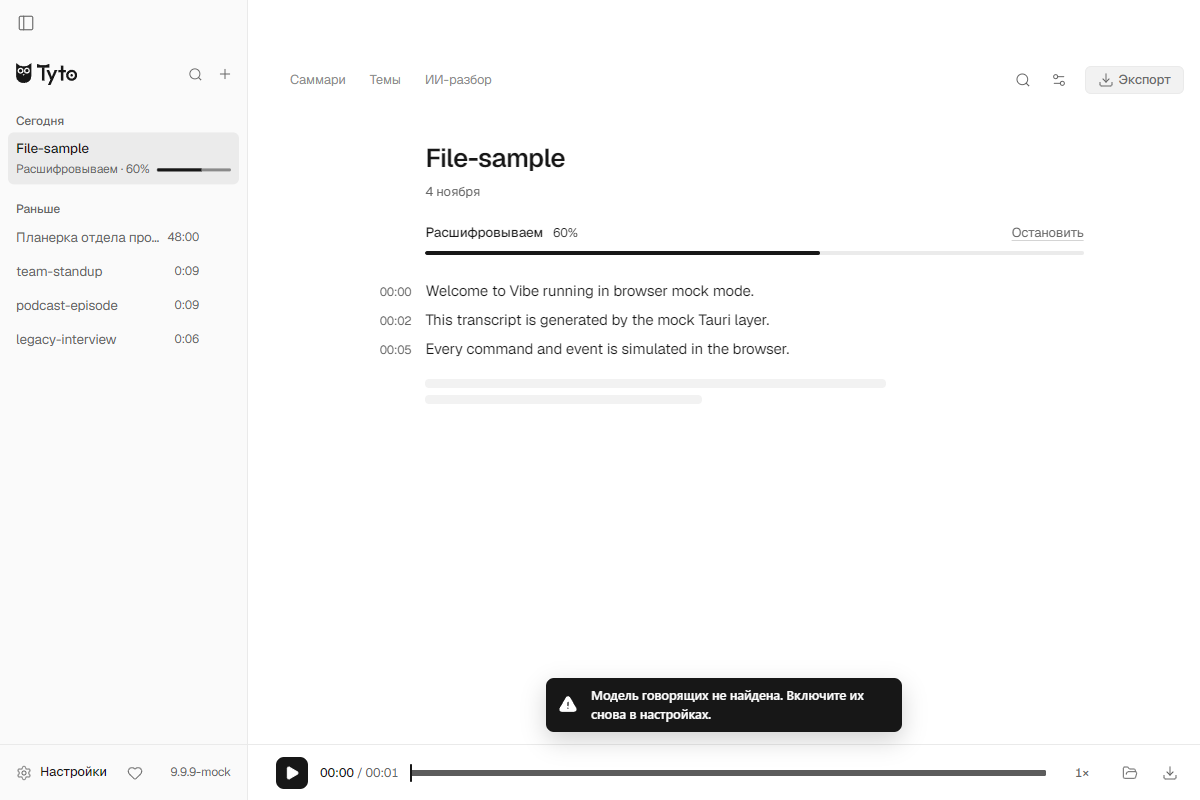
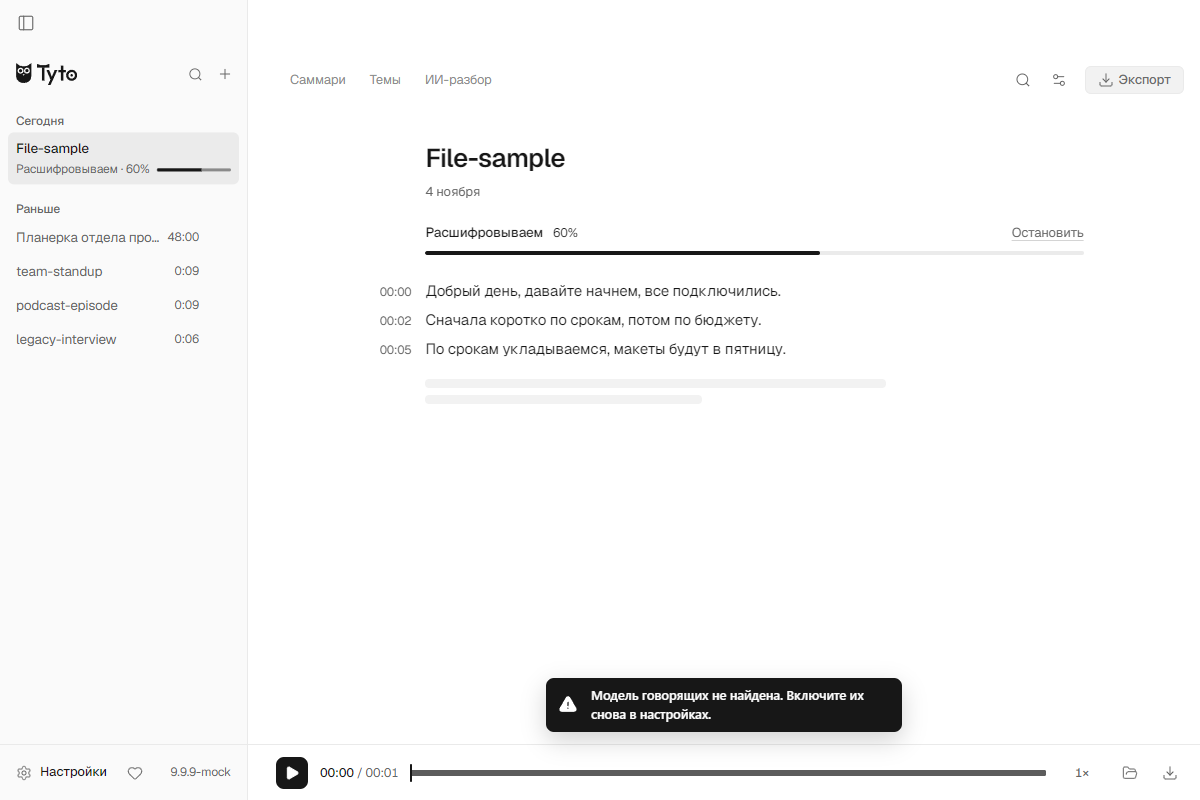
No Vibe in the app: credit line out of settings, demo text in Russian
The «based on Vibe» line leaves General settings; the credit stays in the
README on GitHub (MIT asks for the licence text in the repo and the build,
not in the interface). The rebrand test now forbids Vibe in every string.

Browser mode: the sample transcript was «Welcome to Vibe running in
browser mock mode» and ended up in design screenshots; it is a short
Russian meeting with two speakers now, and the mock app name is tyto.

Changed region(s): [[0.3392, 0.3438, 0.6475, 0.4688]]

diff --git a/desktop/src/mock-tauri/state.ts b/desktop/src/mock-tauri/state.ts
@@ -94,11 +94,11 @@ virtualFs.set(
 )
 
 export const sampleSegments: { start: number; stop: number; text: string; speaker?: number }[] = [
-	{ start: 0, stop: 240, text: 'Welcome to Vibe running in browser mock mode.' },
-	{ start: 240, stop: 520, text: 'This transcript is generated by the mock Tauri layer.' },
-	{ start: 520, stop: 800, text: 'Every command and event is simulated in the browser.' },
-	{ start: 800, stop: 1100, text: 'Use it to iterate on the UI without the desktop runtime.' },
-	{ start: 1100, stop: 1400, text: 'Streaming, progress and errors behave like the real app.' },
+	{ start: 0, stop: 240, text: 'Добрый день, давайте начнем, все подключились.', speaker: 0 },
+	{ start: 240, stop: 520, text: 'Сначала коротко по срокам, потом по бюджету.', speaker: 0 },
+	{ start: 520, stop: 800, text: 'По срокам укладываемся, макеты будут в пятницу.', speaker: 1 },
+	{ start: 800, stop: 1100, text: 'Отлично. Тогда бюджет согласуем на следующей встрече.', speaker: 0 },
+	{ start: 1100, stop: 1400, text: 'Договорились, я пришлю смету до среды.', speaker: 1 },
 ]
 
 // Tunables so flows are observable but fast.
@@ -109,4 +109,4 @@ export const DOWNLOAD_TICK_MS = 150
 export const mockPlatform = 'macos'
 export const mockArch = 'aarch64'
 export const appVersion = '9.9.9-mock'
-export const appName = 'vibe'
+export const appName = 'tyto'

diff --git a/desktop/src/lib/tyto/copy.test.ts b/desktop/src/lib/tyto/copy.test.ts
@@ -85,7 +85,6 @@ const COPY: Array<[string, string]> = [
 	['launchAtStartup', 'Запускать вместе с системой'],
 	['preventSleep', 'Не давать компьютеру засыпать'],
 	['generalHelp', 'Помощь'],
-	['basedOnVibe', 'Tyto основан на открытом проекте Vibe (лицензия MIT). Спасибо автору.'],
 	['generalTrayInfo', 'Tyto продолжит работать в фоне. Выйти можно из меню значка в трее.'],
 	['launchAtStartupInfo', 'Tyto откроется сам, когда вы войдете в систему.'],
 	['generalAwakeInfo', 'Пока Tyto открыт. Экран при этом может гаснуть, ноутбук быстрее разряжается.'],

diff --git a/desktop/src/lib/tyto/rebrand.test.ts b/desktop/src/lib/tyto/rebrand.test.ts
@@ -30,12 +30,10 @@ describe('tyto links', () => {
 
 describe('tyto texts', () => {
 	for (const locale of ['ru-RU', 'en-US']) {
-		it(`${locale} never says Vibe except in the credit line`, () => {
+		// The credit to Vibe lives in the README on GitHub, not in the app (Denis, 2026-11-03).
+		it(`${locale} never says Vibe`, () => {
 			const messages = readMessages(locale)
-			for (const [key, value] of Object.entries(messages)) {
-				if (key !== 'basedOnVibe') expect(value, key).not.toMatch(/\bVibe\b/)
-			}
-			expect(messages.basedOnVibe).toMatch(/Vibe/)
+			for (const [key, value] of Object.entries(messages)) expect(value, key).not.toMatch(/\bVibe\b/)
 		})
 	}
 })

diff --git a/desktop/src/pages/settings/sections/general.tsx b/desktop/src/pages/settings/sections/general.tsx
@@ -115,12 +115,6 @@ export function GeneralSection({ vm }: { vm: SettingsViewModel }) {
 			</SettingsGroup>
 
 			<div className="mt-6 flex flex-wrap items-center gap-2 text-[12.5px] text-muted-foreground">
-				<button
-					type="button"
-					onClick={() => openUrl(config.upstreamURL)}
-					className="text-start underline-offset-2 hover:text-foreground hover:underline focus-visible:outline-none focus-visible:ring-2 focus-visible:ring-ring">
-					{m.basedOnVibe()}
-				</button>
 				<Button variant="ghost" size="sm" className="ml-auto" onClick={() => openUrl(config.aboutURL)}>
 					{m.projectLink()}
 				</Button>
